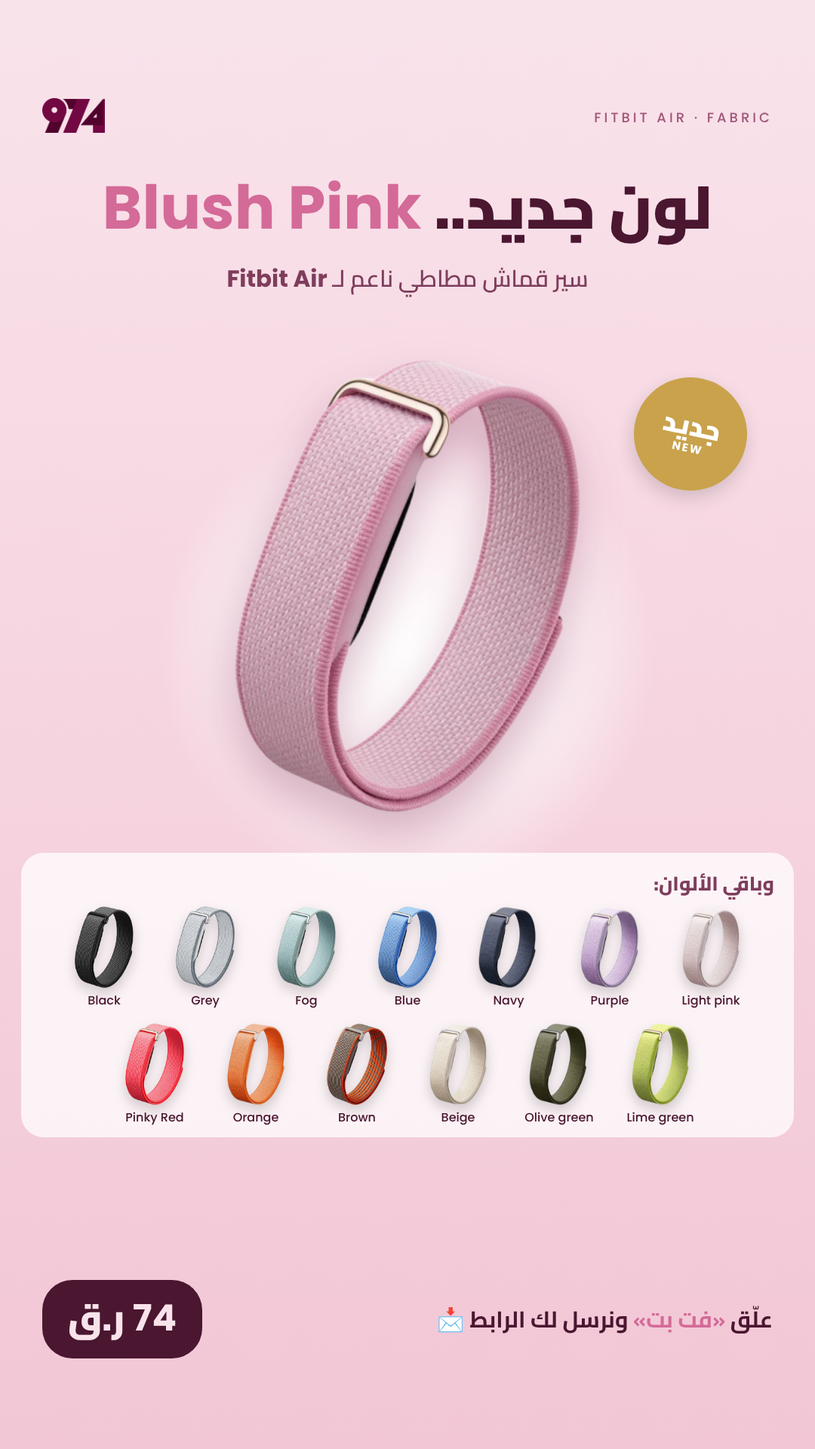
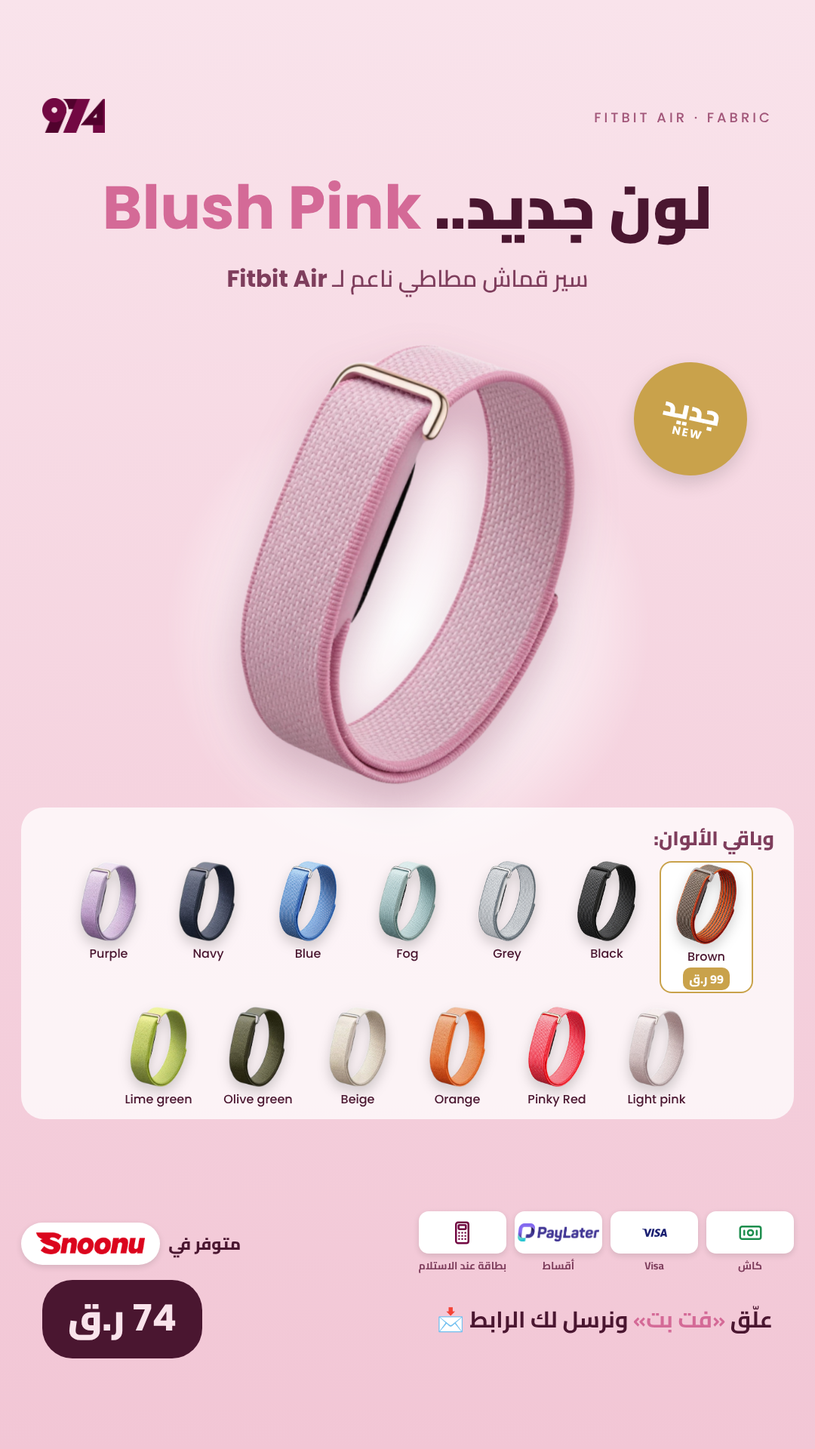
payfoot template + fabric design with pay/snoonu footer, brown 99 tag
Claude-Session: https://claude.ai/code/session_01K6HDWNrArsGSJekW1VcEzV

Changed region(s): [[0.0, 0.25, 0.9778, 0.875], [0.7639, 0.25, 0.9167, 0.3438], [0.0306, 0.8438, 0.275, 0.875]]

diff --git a/posts/2026-11/fitbit-fabric-blush/974-fitbit-fabric-blush-post.html b/posts/2026-11/fitbit-fabric-blush/974-fitbit-fabric-blush-post.html
@@ -11,17 +11,32 @@ h1{position:absolute;top:120px;left:0;right:0;text-align:center;direction:rtl;fo
 h1 b{font-family:Poppins;font-weight:700;color:#D46A97}
 .sub{position:absolute;top:215px;left:0;right:0;text-align:center;direction:rtl;font-weight:600;font-size:27px;color:#7E3D5C}
 .sub b{font-family:Poppins;font-weight:700}
-.disc{position:absolute;left:50%;top:334.8px;width:504.0px;height:504.0px;transform:translateX(-50%);border-radius:50%;background:radial-gradient(circle,#FFFFFF 0%,rgba(255,255,255,.55) 45%,rgba(255,255,255,0) 70%)}
-.hero{position:absolute;left:50%;top:290px;height:459.2px;transform:translateX(-50%) rotate(6deg);filter:drop-shadow(0 30px 28px rgba(110,30,70,.28))}
-.new{position:absolute;top:320px;right:110px;width:150px;height:150px;border-radius:50%;background:#C9A24B;color:#fff;display:flex;flex-direction:column;align-items:center;justify-content:center;transform:rotate(12deg);box-shadow:0 10px 24px rgba(0,0,0,.15)}
+.disc{position:absolute;left:50%;top:324.0px;width:495.0px;height:495.0px;transform:translateX(-50%);border-radius:50%;background:radial-gradient(circle,#FFFFFF 0%,rgba(255,255,255,.55) 45%,rgba(255,255,255,0) 70%)}
+.hero{position:absolute;left:50%;top:280px;height:451.0px;transform:translateX(-50%) rotate(6deg);filter:drop-shadow(0 30px 28px rgba(110,30,70,.28))}
+.new{position:absolute;top:310px;right:110px;width:150px;height:150px;border-radius:50%;background:#C9A24B;color:#fff;display:flex;flex-direction:column;align-items:center;justify-content:center;transform:rotate(12deg);box-shadow:0 10px 24px rgba(0,0,0,.15)}
 .new b{font-weight:900;font-size:36px;line-height:1} .new s{text-decoration:none;font-family:Poppins;font-weight:700;font-size:15px;letter-spacing:2px}
-.strip{position:absolute;left:28px;right:28px;top:830px;background:rgba(255,255,255,.75);border-radius:30px;padding:16px 18px 14px}
+.strip{position:absolute;left:28px;right:28px;top:750px;background:rgba(255,255,255,.75);border-radius:30px;padding:16px 18px 14px}
 .strip h3{direction:rtl;text-align:right;font-weight:800;font-size:22px;margin:0 8px 6px;color:#7E3D5C}
-.row{display:flex;flex-wrap:wrap;justify-content:center;row-gap:8px;column-gap:14px}
-.o{display:flex;flex-direction:column;align-items:center;width:122px}
-.o img{height:104px;max-width:114px;object-fit:contain;filter:drop-shadow(0 8px 8px rgba(0,0,0,.18))}
+.row{direction:rtl;display:flex;flex-wrap:wrap;justify-content:center;row-gap:8px;column-gap:14px}
+.o{display:flex;flex-direction:column;align-items:center;width:112px}
+.o img{height:94px;max-width:104px;object-fit:contain;filter:drop-shadow(0 8px 8px rgba(0,0,0,.18))}
 .o span{font-family:Poppins;font-weight:500;font-size:14px;margin-top:4px;white-space:nowrap}
-.foot{position:absolute;left:56px;right:56px;bottom:40px;display:flex;justify-content:space-between;align-items:center;direction:rtl}
+.o.br{background:#fff;border-radius:16px;padding:4px 2px;box-shadow:0 0 0 2px #C9A24B inset}
+.o em{font-style:normal;font-family:Cairo;font-weight:800;font-size:14px;color:#fff;background:#C9A24B;border-radius:10px;padding:0 8px;margin-top:2px;direction:rtl}
+.pf{position:absolute;left:28px;right:28px;bottom:128px}
+
+.payfoot{display:flex;align-items:center;justify-content:space-between;direction:rtl;gap:16px}
+.payfoot .pills{display:flex;gap:10px;direction:rtl}
+.payfoot .ch{display:flex;flex-direction:column;align-items:center;gap:3px}
+.payfoot .ch .lg{width:104px;height:50px;background:#fff;border-radius:12px;display:flex;align-items:center;justify-content:center;box-shadow:0 3px 8px rgba(0,0,0,.12);overflow:hidden}
+.payfoot .ch .lg svg{height:30px!important;width:auto!important}
+.payfoot .ch .lg img{height:22px!important}
+.payfoot .ch i{font-style:normal;font-size:13px;color:#7E3D5C;font-weight:700;font-family:Cairo;white-space:nowrap}
+.payfoot .av{display:flex;align-items:center;gap:10px;font-family:Cairo;font-weight:800;font-size:20px;color:#4A1630;white-space:nowrap}
+.payfoot .av .chip{background:#fff;border-radius:30px;height:50px;padding:0 18px;display:flex;align-items:center;box-shadow:0 3px 8px rgba(0,0,0,.12)}
+.payfoot .av .chip img{height:26px}
+
+.foot{position:absolute;left:56px;right:56px;bottom:36px;display:flex;justify-content:space-between;align-items:center;direction:rtl}
 .price{background:#4A1630;color:#F9E3EB;border-radius:40px;padding:4px 34px 10px;font-weight:900;font-size:40px}
 .price b{font-family:Poppins}
 .cta{font-weight:700;font-size:26px}
@@ -33,6 +48,12 @@ h1 b{font-family:Poppins;font-weight:700;color:#D46A97}
 <div class="disc"></div>
 <img class="hero" src="file:///home/claude/974-social/products/fitbit-fabric-blush/src/blush-crop.png">
 <div class="new"><b>جديد</b><s>NEW</s></div>
-<div class="strip"><h3>وباقي الألوان:</h3><div class="row"><div class="o"><img src="file:///home/claude/974-social/products/fitbit-fabric-blush/src/black-crop.png"><span>Black</span></div><div class="o"><img src="file:///home/claude/974-social/products/fitbit-fabric-blush/src/grey-crop.png"><span>Grey</span></div><div class="o"><img src="file:///home/claude/974-social/products/fitbit-fabric-blush/src/fog-crop.png"><span>Fog</span></div><div class="o"><img src="file:///home/claude/974-social/products/fitbit-fabric-blush/src/blue-crop.png"><span>Blue</span></div><div class="o"><img src="file:///home/claude/974-social/products/fitbit-fabric-blush/src/navy-crop.png"><span>Navy</span></div><div class="o"><img src="file:///home/claude/974-social/products/fitbit-fabric-blush/src/purple-crop.png"><span>Purple</span></div><div class="o"><img src="file:///home/claude/974-social/products/fitbit-fabric-blush/src/light-pink-crop.png"><span>Light pink</span></div><div class="o"><img src="file:///home/claude/974-social/products/fitbit-fabric-blush/src/pinky-red-crop.png"><span>Pinky Red</span></div><div class="o"><img src="file:///home/claude/974-social/products/fitbit-fabric-blush/src/orange-crop.png"><span>Orange</span></div><div class="o"><img src="file:///home/claude/974-social/products/fitbit-fabric-blush/src/brown-crop.png"><span>Brown</span></div><div class="o"><img src="file:///home/claude/974-social/products/fitbit-fabric-blush/src/beige-crop.png"><span>Beige</span></div><div class="o"><img src="file:///home/claude/974-social/products/fitbit-fabric-blush/src/olive-crop.png"><span>Olive green</span></div><div class="o"><img src="file:///home/claude/974-social/products/fitbit-fabric-blush/src/lime-crop.png"><span>Lime green</span></div></div></div>
+<div class="strip"><h3>وباقي الألوان:</h3><div class="row"><div class="o br"><img src="file:///home/claude/974-social/products/fitbit-fabric-blush/src/brown-crop.png"><span>Brown</span><em>99 ر.ق</em></div><div class="o"><img src="file:///home/claude/974-social/products/fitbit-fabric-blush/src/black-crop.png"><span>Black</span></div><div class="o"><img src="file:///home/claude/974-social/products/fitbit-fabric-blush/src/grey-crop.png"><span>Grey</span></div><div class="o"><img src="file:///home/claude/974-social/products/fitbit-fabric-blush/src/fog-crop.png"><span>Fog</span></div><div class="o"><img src="file:///home/claude/974-social/products/fitbit-fabric-blush/src/blue-crop.png"><span>Blue</span></div><div class="o"><img src="file:///home/claude/974-social/products/fitbit-fabric-blush/src/navy-crop.png"><span>Navy</span></div><div class="o"><img src="file:///home/claude/974-social/products/fitbit-fabric-blush/src/purple-crop.png"><span>Purple</span></div><div class="o"><img src="file:///home/claude/974-social/products/fitbit-fabric-blush/src/light-pink-crop.png"><span>Light pink</span></div><div class="o"><img src="file:///home/claude/974-social/products/fitbit-fabric-blush/src/pinky-red-crop.png"><span>Pinky Red</span></div><div class="o"><img src="file:///home/claude/974-social/products/fitbit-fabric-blush/src/orange-crop.png"><span>Orange</span></div><div class="o"><img src="file:///home/claude/974-social/products/fitbit-fabric-blush/src/beige-crop.png"><span>Beige</span></div><div class="o"><img src="file:///home/claude/974-social/products/fitbit-fabric-blush/src/olive-crop.png"><span>Olive green</span></div><div class="o"><img src="file:///home/claude/974-social/products/fitbit-fabric-blush/src/lime-crop.png"><span>Lime green</span></div></div></div>
+<div class="pf"><div class="payfoot"><div class="pills">
+<div class="ch"><div class="lg"><svg viewBox="0 0 24 24" style="height:54px" fill="none" stroke="#1E8E4E" stroke-width="1.8" stroke-linecap="round" stroke-linejoin="round"><rect x="2" y="6" width="20" height="12" rx="2"/><circle cx="12" cy="12" r="2.6"/><path d="M6 10v4M18 10v4"/></svg></div><i>كاش</i></div>
+<div class="ch"><div class="lg"><svg fill="#1A1F71" style="height:120px;width:150px" xmlns="http://www.w3.org/2000/svg" viewBox="0 0 24 24"><path d="M9.112 8.262 5.97 15.758H3.92L2.374 9.775c-.094-.368-.175-.503-.461-.658C1.447 8.864.677 8.627 0 8.479l.046-.217h3.3a.904.904 0 0 1 .894.764l.817 4.338 2.018-5.102zm8.033 5.049c.008-1.979-2.736-2.088-2.717-2.972.006-.269.262-.555.822-.628a3.66 3.66 0 0 1 1.913.336l.34-1.59a5.2 5.2 0 0 0-1.814-.333c-1.917 0-3.266 1.02-3.278 2.479-.012 1.079.963 1.68 1.698 2.04.756.367 1.01.603 1.006.931-.005.504-.602.725-1.16.734-.975.015-1.54-.263-1.992-.473l-.351 1.642c.453.208 1.289.39 2.156.398 2.037 0 3.37-1.006 3.377-2.564m5.061 2.447H24l-1.565-7.496h-1.656a.88.88 0 0 0-.826.55l-2.909 6.946h2.036l.405-1.12h2.488zm-2.163-2.656 1.02-2.815.588 2.815zm-8.16-4.84-1.603 7.496H8.34l1.605-7.496z"/></svg></div><i>Visa</i></div>
+<div class="ch"><div class="lg"><img src="file:///home/claude/974-social/reels/2026-11/pilates/end/logos/paylater.png" style="height:40px"></div><i>أقساط</i></div>
+<div class="ch"><div class="lg"><svg viewBox="0 0 24 24" style="height:54px" fill="none" stroke="#720842" stroke-width="1.8" stroke-linecap="round" stroke-linejoin="round"><rect x="6" y="2" width="12" height="20" rx="2"/><rect x="8.5" y="4.5" width="7" height="4" rx=".6"/><path d="M9 12h.01M12 12h.01M15 12h.01M9 15h.01M12 15h.01M15 15h.01M9 18h.01M12 18h.01M15 18h.01"/></svg></div><i>بطاقة عند الاستلام</i></div>
+</div><div class="av"><span>متوفر في</span><div class="chip"><img src="file:///home/claude/974-social/reels/2026-11/pilates/end/logos/snoonu.png"></div></div></div></div>
 <div class="foot"><div class="cta">علّق <em>«فت بت»</em> ونرسل لك الرابط 📩</div><div class="price"><b>74</b> ر.ق</div></div>
 </body></html>

diff --git a/posts/2026-11/fitbit-fabric-blush/974-fitbit-fabric-blush-story.html b/posts/2026-11/fitbit-fabric-blush/974-fitbit-fabric-blush-story.html
@@ -11,16 +11,31 @@ h1{position:absolute;top:230px;left:0;right:0;text-align:center;direction:rtl;fo
 h1 b{font-family:Poppins;font-weight:700;color:#D46A97}
 .sub{position:absolute;top:340px;left:0;right:0;text-align:center;direction:rtl;font-weight:600;font-size:31px;color:#7E3D5C}
 .sub b{font-family:Poppins;font-weight:700}
-.disc{position:absolute;left:50%;top:529.2px;width:666.0px;height:666.0px;transform:translateX(-50%);border-radius:50%;background:radial-gradient(circle,#FFFFFF 0%,rgba(255,255,255,.55) 45%,rgba(255,255,255,0) 70%)}
-.hero{position:absolute;left:50%;top:470px;height:606.8px;transform:translateX(-50%) rotate(6deg);filter:drop-shadow(0 30px 28px rgba(110,30,70,.28))}
-.new{position:absolute;top:500px;right:90px;width:150px;height:150px;border-radius:50%;background:#C9A24B;color:#fff;display:flex;flex-direction:column;align-items:center;justify-content:center;transform:rotate(12deg);box-shadow:0 10px 24px rgba(0,0,0,.15)}
+.disc{position:absolute;left:50%;top:507.6px;width:648.0px;height:648.0px;transform:translateX(-50%);border-radius:50%;background:radial-gradient(circle,#FFFFFF 0%,rgba(255,255,255,.55) 45%,rgba(255,255,255,0) 70%)}
+.hero{position:absolute;left:50%;top:450px;height:590.4px;transform:translateX(-50%) rotate(6deg);filter:drop-shadow(0 30px 28px rgba(110,30,70,.28))}
+.new{position:absolute;top:480px;right:90px;width:150px;height:150px;border-radius:50%;background:#C9A24B;color:#fff;display:flex;flex-direction:column;align-items:center;justify-content:center;transform:rotate(12deg);box-shadow:0 10px 24px rgba(0,0,0,.15)}
 .new b{font-weight:900;font-size:36px;line-height:1} .new s{text-decoration:none;font-family:Poppins;font-weight:700;font-size:15px;letter-spacing:2px}
-.strip{position:absolute;left:28px;right:28px;top:1130px;background:rgba(255,255,255,.75);border-radius:30px;padding:16px 18px 14px}
+.strip{position:absolute;left:28px;right:28px;top:1070px;background:rgba(255,255,255,.75);border-radius:30px;padding:16px 18px 14px}
 .strip h3{direction:rtl;text-align:right;font-weight:800;font-size:26px;margin:0 8px 6px;color:#7E3D5C}
-.row{display:flex;flex-wrap:wrap;justify-content:center;row-gap:18px;column-gap:8px}
-.o{display:flex;flex-direction:column;align-items:center;width:126px}
-.o img{height:108px;max-width:118px;object-fit:contain;filter:drop-shadow(0 8px 8px rgba(0,0,0,.18))}
+.row{direction:rtl;display:flex;flex-wrap:wrap;justify-content:center;row-gap:18px;column-gap:8px}
+.o{display:flex;flex-direction:column;align-items:center;width:124px}
+.o img{height:106px;max-width:116px;object-fit:contain;filter:drop-shadow(0 8px 8px rgba(0,0,0,.18))}
 .o span{font-family:Poppins;font-weight:500;font-size:16px;margin-top:4px;white-space:nowrap}
+.o.br{background:#fff;border-radius:16px;padding:4px 2px;box-shadow:0 0 0 2px #C9A24B inset}
+.o em{font-style:normal;font-family:Cairo;font-weight:800;font-size:16px;color:#fff;background:#C9A24B;border-radius:10px;padding:0 8px;margin-top:2px;direction:rtl}
+.pf{position:absolute;left:28px;right:28px;bottom:230px}
+
+.payfoot{display:flex;align-items:center;justify-content:space-between;direction:rtl;gap:17px}
+.payfoot .pills{display:flex;gap:11px;direction:rtl}
+.payfoot .ch{display:flex;flex-direction:column;align-items:center;gap:3px}
+.payfoot .ch .lg{width:116px;height:56px;background:#fff;border-radius:13px;display:flex;align-items:center;justify-content:center;box-shadow:0 3px 8px rgba(0,0,0,.12);overflow:hidden}
+.payfoot .ch .lg svg{height:33px!important;width:auto!important}
+.payfoot .ch .lg img{height:24px!important}
+.payfoot .ch i{font-style:normal;font-size:14px;color:#7E3D5C;font-weight:700;font-family:Cairo;white-space:nowrap}
+.payfoot .av{display:flex;align-items:center;gap:11px;font-family:Cairo;font-weight:800;font-size:22px;color:#4A1630;white-space:nowrap}
+.payfoot .av .chip{background:#fff;border-radius:33px;height:56px;padding:0 20px;display:flex;align-items:center;box-shadow:0 3px 8px rgba(0,0,0,.12)}
+.payfoot .av .chip img{height:29px}
+
 .foot{position:absolute;left:56px;right:56px;bottom:120px;display:flex;justify-content:space-between;align-items:center;direction:rtl}
 .price{background:#4A1630;color:#F9E3EB;border-radius:40px;padding:4px 34px 10px;font-weight:900;font-size:48px}
 .price b{font-family:Poppins}
@@ -33,6 +48,12 @@ h1 b{font-family:Poppins;font-weight:700;color:#D46A97}
 <div class="disc"></div>
 <img class="hero" src="file:///home/claude/974-social/products/fitbit-fabric-blush/src/blush-crop.png">
 <div class="new"><b>جديد</b><s>NEW</s></div>
-<div class="strip"><h3>وباقي الألوان:</h3><div class="row"><div class="o"><img src="file:///home/claude/974-social/products/fitbit-fabric-blush/src/black-crop.png"><span>Black</span></div><div class="o"><img src="file:///home/claude/974-social/products/fitbit-fabric-blush/src/grey-crop.png"><span>Grey</span></div><div class="o"><img src="file:///home/claude/974-social/products/fitbit-fabric-blush/src/fog-crop.png"><span>Fog</span></div><div class="o"><img src="file:///home/claude/974-social/products/fitbit-fabric-blush/src/blue-crop.png"><span>Blue</span></div><div class="o"><img src="file:///home/claude/974-social/products/fitbit-fabric-blush/src/navy-crop.png"><span>Navy</span></div><div class="o"><img src="file:///home/claude/974-social/products/fitbit-fabric-blush/src/purple-crop.png"><span>Purple</span></div><div class="o"><img src="file:///home/claude/974-social/products/fitbit-fabric-blush/src/light-pink-crop.png"><span>Light pink</span></div><div class="o"><img src="file:///home/claude/974-social/products/fitbit-fabric-blush/src/pinky-red-crop.png"><span>Pinky Red</span></div><div class="o"><img src="file:///home/claude/974-social/products/fitbit-fabric-blush/src/orange-crop.png"><span>Orange</span></div><div class="o"><img src="file:///home/claude/974-social/products/fitbit-fabric-blush/src/brown-crop.png"><span>Brown</span></div><div class="o"><img src="file:///home/claude/974-social/products/fitbit-fabric-blush/src/beige-crop.png"><span>Beige</span></div><div class="o"><img src="file:///home/claude/974-social/products/fitbit-fabric-blush/src/olive-crop.png"><span>Olive green</span></div><div class="o"><img src="file:///home/claude/974-social/products/fitbit-fabric-blush/src/lime-crop.png"><span>Lime green</span></div></div></div>
+<div class="strip"><h3>وباقي الألوان:</h3><div class="row"><div class="o br"><img src="file:///home/claude/974-social/products/fitbit-fabric-blush/src/brown-crop.png"><span>Brown</span><em>99 ر.ق</em></div><div class="o"><img src="file:///home/claude/974-social/products/fitbit-fabric-blush/src/black-crop.png"><span>Black</span></div><div class="o"><img src="file:///home/claude/974-social/products/fitbit-fabric-blush/src/grey-crop.png"><span>Grey</span></div><div class="o"><img src="file:///home/claude/974-social/products/fitbit-fabric-blush/src/fog-crop.png"><span>Fog</span></div><div class="o"><img src="file:///home/claude/974-social/products/fitbit-fabric-blush/src/blue-crop.png"><span>Blue</span></div><div class="o"><img src="file:///home/claude/974-social/products/fitbit-fabric-blush/src/navy-crop.png"><span>Navy</span></div><div class="o"><img src="file:///home/claude/974-social/products/fitbit-fabric-blush/src/purple-crop.png"><span>Purple</span></div><div class="o"><img src="file:///home/claude/974-social/products/fitbit-fabric-blush/src/light-pink-crop.png"><span>Light pink</span></div><div class="o"><img src="file:///home/claude/974-social/products/fitbit-fabric-blush/src/pinky-red-crop.png"><span>Pinky Red</span></div><div class="o"><img src="file:///home/claude/974-social/products/fitbit-fabric-blush/src/orange-crop.png"><span>Orange</span></div><div class="o"><img src="file:///home/claude/974-social/products/fitbit-fabric-blush/src/beige-crop.png"><span>Beige</span></div><div class="o"><img src="file:///home/claude/974-social/products/fitbit-fabric-blush/src/olive-crop.png"><span>Olive green</span></div><div class="o"><img src="file:///home/claude/974-social/products/fitbit-fabric-blush/src/lime-crop.png"><span>Lime green</span></div></div></div>
+<div class="pf"><div class="payfoot"><div class="pills">
+<div class="ch"><div class="lg"><svg viewBox="0 0 24 24" style="height:54px" fill="none" stroke="#1E8E4E" stroke-width="1.8" stroke-linecap="round" stroke-linejoin="round"><rect x="2" y="6" width="20" height="12" rx="2"/><circle cx="12" cy="12" r="2.6"/><path d="M6 10v4M18 10v4"/></svg></div><i>كاش</i></div>
+<div class="ch"><div class="lg"><svg fill="#1A1F71" style="height:120px;width:150px" xmlns="http://www.w3.org/2000/svg" viewBox="0 0 24 24"><path d="M9.112 8.262 5.97 15.758H3.92L2.374 9.775c-.094-.368-.175-.503-.461-.658C1.447 8.864.677 8.627 0 8.479l.046-.217h3.3a.904.904 0 0 1 .894.764l.817 4.338 2.018-5.102zm8.033 5.049c.008-1.979-2.736-2.088-2.717-2.972.006-.269.262-.555.822-.628a3.66 3.66 0 0 1 1.913.336l.34-1.59a5.2 5.2 0 0 0-1.814-.333c-1.917 0-3.266 1.02-3.278 2.479-.012 1.079.963 1.68 1.698 2.04.756.367 1.01.603 1.006.931-.005.504-.602.725-1.16.734-.975.015-1.54-.263-1.992-.473l-.351 1.642c.453.208 1.289.39 2.156.398 2.037 0 3.37-1.006 3.377-2.564m5.061 2.447H24l-1.565-7.496h-1.656a.88.88 0 0 0-.826.55l-2.909 6.946h2.036l.405-1.12h2.488zm-2.163-2.656 1.02-2.815.588 2.815zm-8.16-4.84-1.603 7.496H8.34l1.605-7.496z"/></svg></div><i>Visa</i></div>
+<div class="ch"><div class="lg"><img src="file:///home/claude/974-social/reels/2026-11/pilates/end/logos/paylater.png" style="height:40px"></div><i>أقساط</i></div>
+<div class="ch"><div class="lg"><svg viewBox="0 0 24 24" style="height:54px" fill="none" stroke="#720842" stroke-width="1.8" stroke-linecap="round" stroke-linejoin="round"><rect x="6" y="2" width="12" height="20" rx="2"/><rect x="8.5" y="4.5" width="7" height="4" rx=".6"/><path d="M9 12h.01M12 12h.01M15 12h.01M9 15h.01M12 15h.01M15 15h.01M9 18h.01M12 18h.01M15 18h.01"/></svg></div><i>بطاقة عند الاستلام</i></div>
+</div><div class="av"><span>متوفر في</span><div class="chip"><img src="file:///home/claude/974-social/reels/2026-11/pilates/end/logos/snoonu.png"></div></div></div></div>
 <div class="foot"><div class="cta">علّق <em>«فت بت»</em> ونرسل لك الرابط 📩</div><div class="price"><b>74</b> ر.ق</div></div>
 </body></html>

diff --git a/templates/pay_pills.html b/templates/pay_pills.html
@@ -1,0 +1,5 @@
+
+<div class="ch"><div class="lg"><svg viewBox="0 0 24 24" style="height:54px" fill="none" stroke="#1E8E4E" stroke-width="1.8" stroke-linecap="round" stroke-linejoin="round"><rect x="2" y="6" width="20" height="12" rx="2"/><circle cx="12" cy="12" r="2.6"/><path d="M6 10v4M18 10v4"/></svg></div><i>كاش</i></div>
+<div class="ch"><div class="lg"><svg fill="#1A1F71" style="height:120px;width:150px" xmlns="http://www.w3.org/2000/svg" viewBox="0 0 24 24"><path d="M9.112 8.262 5.97 15.758H3.92L2.374 9.775c-.094-.368-.175-.503-.461-.658C1.447 8.864.677 8.627 0 8.479l.046-.217h3.3a.904.904 0 0 1 .894.764l.817 4.338 2.018-5.102zm8.033 5.049c.008-1.979-2.736-2.088-2.717-2.972.006-.269.262-.555.822-.628a3.66 3.66 0 0 1 1.913.336l.34-1.59a5.2 5.2 0 0 0-1.814-.333c-1.917 0-3.266 1.02-3.278 2.479-.012 1.079.963 1.68 1.698 2.04.756.367 1.01.603 1.006.931-.005.504-.602.725-1.16.734-.975.015-1.54-.263-1.992-.473l-.351 1.642c.453.208 1.289.39 2.156.398 2.037 0 3.37-1.006 3.377-2.564m5.061 2.447H24l-1.565-7.496h-1.656a.88.88 0 0 0-.826.55l-2.909 6.946h2.036l.405-1.12h2.488zm-2.163-2.656 1.02-2.815.588 2.815zm-8.16-4.84-1.603 7.496H8.34l1.605-7.496z"/></svg></div><i>Visa</i></div>
+<div class="ch"><div class="lg"><img src="file:///home/claude/974-social/reels/2026-11/pilates/end/logos/paylater.png" style="height:40px"></div><i>أقساط</i></div>
+<div class="ch"><div class="lg"><svg viewBox="0 0 24 24" style="height:54px" fill="none" stroke="#720842" stroke-width="1.8" stroke-linecap="round" stroke-linejoin="round"><rect x="6" y="2" width="12" height="20" rx="2"/><rect x="8.5" y="4.5" width="7" height="4" rx=".6"/><path d="M9 12h.01M12 12h.01M15 12h.01M9 15h.01M12 15h.01M15 15h.01M9 18h.01M12 18h.01M15 18h.01"/></svg></div><i>بطاقة عند الاستلام</i></div>

diff --git a/posts/2026-11/fitbit-fabric-blush/gen.py b/posts/2026-11/fitbit-fabric-blush/gen.py
@@ -1,14 +1,15 @@
-import subprocess
+import subprocess,sys
+sys.path.insert(0,'/home/claude/974-social/templates'); import payfoot
 SP='/tmp/claude-0/-home-claude/bcc2c2d5-4d57-5df4-9795-f402b1a1cd9a/scratchpad'
 P='/home/claude/974-social/products/fitbit-fabric-blush/src/'
 LOGO='/home/claude/974-social/posts/2026-11/waterproof/src/mark-c.png'
-others=[('Black','black'),('Grey','grey'),('Fog','fog'),('Blue','blue'),('Navy','navy'),('Purple','purple'),('Light pink','light-pink'),('Pinky Red','pinky-red'),('Orange','orange'),('Brown','brown'),('Beige','beige'),('Olive green','olive'),('Lime green','lime')]
+others=[('Brown','brown'),('Black','black'),('Grey','grey'),('Fog','fog'),('Blue','blue'),('Navy','navy'),('Purple','purple'),('Light pink','light-pink'),('Pinky Red','pinky-red'),('Orange','orange'),('Beige','beige'),('Olive green','olive'),('Lime green','lime')]
 def page(W,H,story):
-    hero=560 if not story else 740
-    heroTop=290 if not story else 470
-    strip_top=H-(520 if not story else 790)
-    sz=104 if not story else 108
-    cards=''.join(f'<div class="o"><img src="file://{P}{f}-crop.png"><span>{n}</span></div>' for n,f in others)
+    hero=550 if not story else 720
+    heroTop=280 if not story else 450
+    strip_top=H-(600 if not story else 850)
+    sz=94 if not story else 106
+    cards=''.join(f'<div class="o{" br" if f=="brown" else ""}"><img src="file://{P}{f}-crop.png"><span>{n}</span>{"<em>99 ر.ق</em>" if f=="brown" else ""}</div>' for n,f in others)
     return f'''<!doctype html><html><head><meta charset="utf-8"><style>
 @font-face{{font-family:'Cairo';font-weight:400 900;src:url(file://{SP}/aw/fonts/cairo-SLXVc1nY6HkvangtZmpQdkhzfH5lkSscQyyS8p4_RHH1.woff2)}}
 @font-face{{font-family:'Cairo';font-weight:400 900;src:url(file://{SP}/aw/fonts/cairo-SLXVc1nY6HkvangtZmpQdkhzfH5lkSscRiyS8p4_RA.woff2);unicode-range:U+0000-00FF}}
@@ -28,11 +29,15 @@ h1 b{{font-family:Poppins;font-weight:700;color:#D46A97}}
 .new b{{font-weight:900;font-size:36px;line-height:1}} .new s{{text-decoration:none;font-family:Poppins;font-weight:700;font-size:15px;letter-spacing:2px}}
 .strip{{position:absolute;left:28px;right:28px;top:{strip_top}px;background:rgba(255,255,255,.75);border-radius:30px;padding:16px 18px 14px}}
 .strip h3{{direction:rtl;text-align:right;font-weight:800;font-size:{22 if not story else 26}px;margin:0 8px 6px;color:#7E3D5C}}
-.row{{display:flex;flex-wrap:wrap;justify-content:center;row-gap:{8 if not story else 18}px;column-gap:{14 if not story else 8}px}}
+.row{{direction:rtl;display:flex;flex-wrap:wrap;justify-content:center;row-gap:{8 if not story else 18}px;column-gap:{14 if not story else 8}px}}
 .o{{display:flex;flex-direction:column;align-items:center;width:{sz+18}px}}
 .o img{{height:{sz}px;max-width:{sz+10}px;object-fit:contain;filter:drop-shadow(0 8px 8px rgba(0,0,0,.18))}}
 .o span{{font-family:Poppins;font-weight:500;font-size:{14 if not story else 16}px;margin-top:4px;white-space:nowrap}}
-.foot{{position:absolute;left:56px;right:56px;bottom:{40 if not story else 120}px;display:flex;justify-content:space-between;align-items:center;direction:rtl}}
+.o.br{{background:#fff;border-radius:16px;padding:4px 2px;box-shadow:0 0 0 2px #C9A24B inset}}
+.o em{{font-style:normal;font-family:Cairo;font-weight:800;font-size:{14 if not story else 16}px;color:#fff;background:#C9A24B;border-radius:10px;padding:0 8px;margin-top:2px;direction:rtl}}
+.pf{{position:absolute;left:28px;right:28px;bottom:{128 if not story else 230}px}}
+{payfoot.css(1.0 if not story else 1.12)}
+.foot{{position:absolute;left:56px;right:56px;bottom:{36 if not story else 120}px;display:flex;justify-content:space-between;align-items:center;direction:rtl}}
 .price{{background:#4A1630;color:#F9E3EB;border-radius:40px;padding:4px 34px 10px;font-weight:900;font-size:{40 if not story else 48}px}}
 .price b{{font-family:Poppins}}
 .cta{{font-weight:700;font-size:{26 if not story else 30}px}}
@@ -45,6 +50,7 @@ h1 b{{font-family:Poppins;font-weight:700;color:#D46A97}}
 <img class="hero" src="file://{P}blush-crop.png">
 <div class="new"><b>جديد</b><s>NEW</s></div>
 <div class="strip"><h3>وباقي الألوان:</h3><div class="row">{cards}</div></div>
+<div class="pf">{payfoot.html()}</div>
 <div class="foot"><div class="cta">علّق <em>«فت بت»</em> ونرسل لك الرابط 📩</div><div class="price"><b>74</b> ر.ق</div></div>
 </body></html>'''
 for name,W,H,st in (('974-fitbit-fabric-blush-post',1080,1350,False),('974-fitbit-fabric-blush-story',1080,1920,True)):

diff --git a/templates/payfoot.py b/templates/payfoot.py
@@ -1,0 +1,19 @@
+"""Shared footer for 974 posts/stories: payment methods + 'متوفر في' Snoonu. Owner rule (4 Nov 2026): every post from now on."""
+PILLS=open('/home/claude/974-social/templates/pay_pills.html').read()
+SNOONU='file:///home/claude/974-social/reels/2026-11/pilates/end/logos/snoonu.png'
+def css(scale=1.0, text='#4A1630', label='#7E3D5C'):
+    s=scale
+    return f'''
+.payfoot{{display:flex;align-items:center;justify-content:space-between;direction:rtl;gap:{int(16*s)}px}}
+.payfoot .pills{{display:flex;gap:{int(10*s)}px;direction:rtl}}
+.payfoot .ch{{display:flex;flex-direction:column;align-items:center;gap:{int(3*s)}px}}
+.payfoot .ch .lg{{width:{int(104*s)}px;height:{int(50*s)}px;background:#fff;border-radius:{int(12*s)}px;display:flex;align-items:center;justify-content:center;box-shadow:0 3px 8px rgba(0,0,0,.12);overflow:hidden}}
+.payfoot .ch .lg svg{{height:{int(30*s)}px!important;width:auto!important}}
+.payfoot .ch .lg img{{height:{int(22*s)}px!important}}
+.payfoot .ch i{{font-style:normal;font-size:{int(13*s)}px;color:{label};font-weight:700;font-family:Cairo;white-space:nowrap}}
+.payfoot .av{{display:flex;align-items:center;gap:{int(10*s)}px;font-family:Cairo;font-weight:800;font-size:{int(20*s)}px;color:{text};white-space:nowrap}}
+.payfoot .av .chip{{background:#fff;border-radius:{int(30*s)}px;height:{int(50*s)}px;padding:0 {int(18*s)}px;display:flex;align-items:center;box-shadow:0 3px 8px rgba(0,0,0,.12)}}
+.payfoot .av .chip img{{height:{int(26*s)}px}}
+'''
+def html():
+    return f'<div class="payfoot"><div class="pills">{PILLS}</div><div class="av"><span>متوفر في</span><div class="chip"><img src="{SNOONU}"></div></div></div>'
